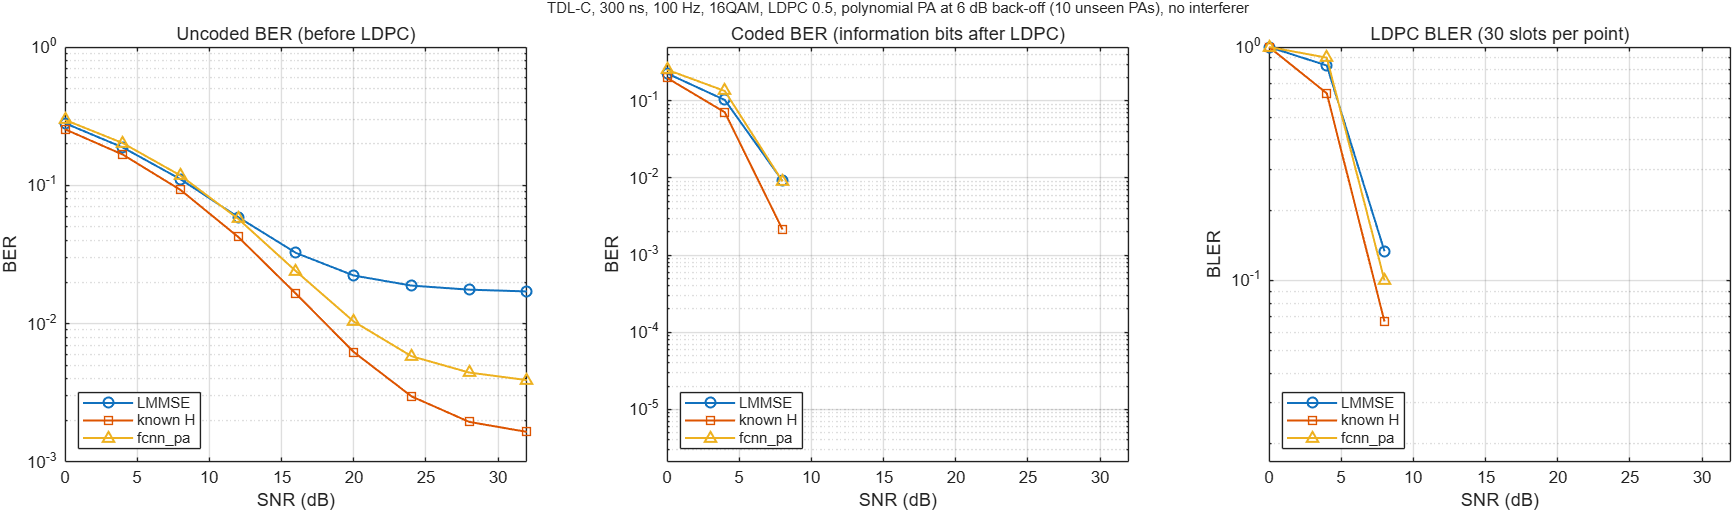
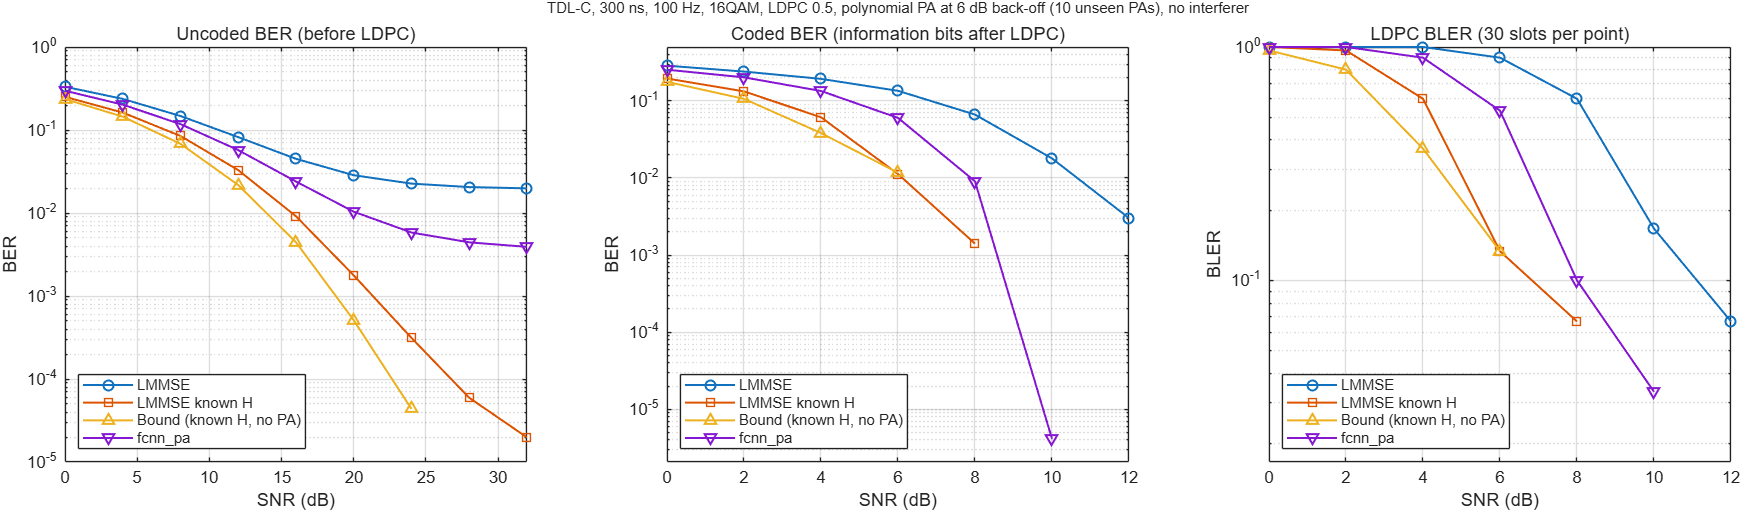
Fix the known-H reference under a PA and split the coded SNR sweep
- run_link passes the PA's Bussgang gain g as truth.PAGain, and the knownH
  receiver equalizes with g*H. The true H alone left the dithered PAs'
  phase rotation (up to 12 deg) in the data, so 'LMMSE known H' hit an
  error floor and was no ceiling under a PA.
- compare_snr adds 'Bound (known H, no PA)' when the test link has a PA,
  and plots coded BER and BLER on their own grid, CodedSNRs (default
  0:2:12); the uncoded panel keeps SNRs (0:4:32).
- Regenerated fcnn_pa, tcnn_1 and tcnn_2, and added tmp_pa_gap: tcnn_feq
  at Doppler 0 with 3 DMRS symbols, where the TCNN lowers the high-SNR
  BER floor about 3x, i.e. channel estimation was what masked it before.

diff --git a/compare_snr.m b/compare_snr.m
@@ -7,9 +7,16 @@ function results = compare_snr(models, varargin)
 %   train_fcnn / train_receiver (any flow) or the legacy FCNN. The
 %   paper's two LMMSE baselines are always added as references: 'LMMSE'
 %   (LS channel estimate at the DMRS, linear interpolation, LMMSE
-%   equalization) and 'LMMSE known H' (the true channel).
+%   equalization) and 'LMMSE known H' (the true channel). With a PA on the
+%   test link, the paper's upper bound is added too, 'Bound (known H, no
+%   PA)': LMMSE with the true channel on the same slots (bits, fading,
+%   noise) sent with a linear PA and a time-invariant channel (Doppler 0),
+%   so there is neither PA distortion nor ICI.
 % Name/value options:
-%   'SNRs'   SNR points in dB (default 0:4:32)
+%   'SNRs'   SNR points in dB of the uncoded BER panel (default 0:4:32)
+%   'CodedSNRs'  SNR points in dB of the coded BER and BLER panels
+%            (default 0:2:12, where LDPC goes from failing to error-free).
+%            Every slot is simulated at the union of both grids.
 %   'Slots'  slots per SNR point (default 30); seeds Seed, Seed+1, ...,
 %            the same at every SNR and for every receiver
 %   'Seed'   first slot seed (default 5001, away from training seeds)
@@ -31,6 +38,7 @@ function results = compare_snr(models, varargin)
 p = inputParser; p.PartialMatching = false;
 addRequired(p, 'models', @(x) iscellstr(x) || isstring(x));
 addParameter(p, 'SNRs', 0:4:32, @(x) isnumeric(x) && isvector(x));
+addParameter(p, 'CodedSNRs', 0:2:12, @(x) isnumeric(x) && isvector(x));
 addParameter(p, 'Slots', 30, @(x) isscalar(x) && x >= 1 && x == fix(x));
 addParameter(p, 'Seed', 5001, @(x) isscalar(x) && x >= 0 && x == fix(x));
 addParameter(p, 'Link', {}, @iscell);
@@ -39,6 +47,7 @@ addParameter(p, 'Labels', {}, @(x) iscellstr(x) || isstring(x));
 addParameter(p, 'Name', 'snr_sweep', @(x) ischar(x) || isstring(x));
 parse(p, models, varargin{:});
 opt = p.Results;
+snrs = union(opt.SNRs(:), opt.CodedSNRs(:)).';  % Sorted, every point simulated once.
 names = cellstr(opt.models);
 labels = cellstr(opt.Labels);
 if isempty(labels), labels = names; end
@@ -74,9 +83,12 @@ if opt.UsePABank && strcmp(base.PAModel, 'polynomial')
 end
 
 % Receivers: references first, then the models.
-receivers = [{'LMMSE', 'LMMSE known H'}, labels(:).'];
-refs = 2;
-R = numel(receivers); S = numel(opt.SNRs);
+receivers = {'LMMSE', 'LMMSE known H'};
+paOff = ~strcmp(base.PAModel, 'none');
+if paOff, receivers{end + 1} = 'Bound (known H, no PA)'; end
+refs = numel(receivers);
+receivers = [receivers, labels(:).'];
+R = numel(receivers); S = numel(snrs);
 counts = zeros(R, S, 5);  % bit errors, bits, block errors, coded bit errors, coded bits
 ctx = rx.context(base);
 fprintf('%s\n', describe(base, pas));
@@ -84,7 +96,7 @@ clock = tic;
 for i = 1:S
     for n = 1:opt.Slots
         cfg = base;
-        cfg.SNRdB = opt.SNRs(i);
+        cfg.SNRdB = snrs(i);
         cfg.Seed = opt.Seed + n - 1;
         if ~isempty(pas)
             cfg.PACoefficients = pas(mod(n - 1, size(pas, 1)) + 1, :);
@@ -93,6 +105,13 @@ for i = 1:S
         llrs = cell(1, R);
         llrs{1} = rx.receive(w, ctx, 'conventional');
         llrs{2} = rx.receive(w, ctx, 'knownH', truth);
+        if paOff
+            ideal = cfg;
+            ideal.PAModel = 'none';
+            ideal.MaximumDopplerShift = 0;
+            [wIdeal, truthIdeal] = run_link(ideal);
+            llrs{3} = rx.receive(wIdeal, ctx, 'knownH', truthIdeal);
+        end
         for k = 1:numel(loaded)
             llrs{refs + k} = nn.receive(w, ctx, loaded{k});
         end
@@ -103,12 +122,12 @@ for i = 1:S
     end
     line = arrayfun(@(r) sprintf('%s %.4f / %.1e / %.2f', receivers{r}, counts(r, i, 1)/counts(r, i, 2), ...
         counts(r, i, 4)/counts(r, i, 5), counts(r, i, 3)/opt.Slots), 1:R, 'UniformOutput', false);
-    fprintf('SNR %5.1f dB | uncoded BER / coded BER / BLER: %s  (%.0f s)\n', opt.SNRs(i), strjoin(line, ' | '), toc(clock));
+    fprintf('SNR %5.1f dB | uncoded BER / coded BER / BLER: %s  (%.0f s)\n', snrs(i), strjoin(line, ' | '), toc(clock));
 end
 
 % Table, figure and files.
 [rr, ss] = ndgrid(1:R, 1:S);
-results = table(reshape(receivers(rr(:)), [], 1), reshape(opt.SNRs(ss(:)), [], 1), ...
+results = table(reshape(receivers(rr(:)), [], 1), reshape(snrs(ss(:)), [], 1), ...
     reshape(counts(:, :, 1)./counts(:, :, 2), [], 1), reshape(counts(:, :, 4)./counts(:, :, 5), [], 1), ...
     reshape(counts(:, :, 3)/opt.Slots, [], 1), ...
     reshape(counts(:, :, 1), [], 1), reshape(counts(:, :, 2), [], 1), ...
@@ -127,18 +146,21 @@ tiledlayout(1, 3);
 styles = {'o-', 's-', '^-', 'v-', 'd-', 'p-', 'h-', '>-', '<-'};
 for panel = 1:3
     nexttile;
+    % Uncoded panel on SNRs, coded panels on CodedSNRs.
+    if panel == 1, x = sort(opt.SNRs(:)).'; else, x = sort(opt.CodedSNRs(:)).'; end
+    at = ismember(snrs, x);
     for r = 1:R
         switch panel
-            case 1, y = squeeze(counts(r, :, 1)./counts(r, :, 2));
-            case 2, y = squeeze(counts(r, :, 4)./counts(r, :, 5));
-            case 3, y = squeeze(counts(r, :, 3))/opt.Slots;
+            case 1, y = squeeze(counts(r, at, 1)./counts(r, at, 2));
+            case 2, y = squeeze(counts(r, at, 4)./counts(r, at, 5));
+            case 3, y = squeeze(counts(r, at, 3))/opt.Slots;
         end
         y(y == 0) = NaN;  % Zero errors: no point on a log axis.
-        semilogy(opt.SNRs, y, styles{mod(r - 1, numel(styles)) + 1}, 'LineWidth', 1.2, ...
+        semilogy(x, y, styles{mod(r - 1, numel(styles)) + 1}, 'LineWidth', 1.2, ...
             'DisplayName', receivers{r}); hold on
     end
     grid on; xlabel('SNR (dB)');
-    if S > 1, xlim(opt.SNRs([1 end])); end  % Same axis even where errors run out.
+    if numel(x) > 1, xlim(x([1 end])); end  % Same axis even where errors run out.
     if panel == 1
         ylabel('BER'); title('Uncoded BER (before LDPC)');
     elseif panel == 2

diff --git a/+rx/receive.m b/+rx/receive.m
@@ -13,7 +13,11 @@ function [llr, trace] = receive(rxWaveform, ctx, mode, genie)
 %                     timing (a one-sample shift rotates subcarrier k by
 %                     2*pi*k/Nfft), so this mode always uses the true timing
 %                     genie.TimingOffset. The noise power is still estimated
-%                     from the pilots.
+%                     from the pilots. With a PA, the data sees g*H, where
+%                     g = genie.PAGain is the PA's Bussgang gain (y = g*x +
+%                     distortion); a perfect estimator would measure g*H at
+%                     the pilots, so this mode uses g*H too. The distortion
+%                     itself stays an impairment.
 %   genie (truth from run_link) is needed only for 'knownH' and for
 %   ctx.TimingEstimation 'perfect'. The conventional receiver with 'dmrs'
 %   timing uses nothing but rxWaveform and ctx.
@@ -40,6 +44,7 @@ switch mode
     case 'knownH'
         assert(isfield(genie, 'H'), 'knownH needs the true channel genie.H.');
         H = genie.H;
+        if isfield(genie, 'PAGain'), H = H * genie.PAGain; end
     otherwise
         error('Unknown receiver mode: %s.', mode);
 end

diff --git a/run_link.m b/run_link.m
@@ -4,7 +4,9 @@ function [rxWaveform, truth, trace] = run_link(cfg)
 %   rxWaveform  samples x receive antennas; the only receiver input
 %               (together with rx.context(cfg)).
 %   truth       for evaluation and genie baselines only:
-%               InfoBits, CodedBits, Code, Grid, H, TimingOffset, NoiseVariance
+%               InfoBits, CodedBits, Code, Grid, H, PAGain, TimingOffset,
+%               NoiseVariance. H is the channel alone; PAGain is the PA's
+%               Bussgang gain g (1 when linear), so the data sees g*H.
 %   trace       tx.transmit and chan.propagate outputs (all checkpoints)
 % Random streams, all derived from cfg.Seed and independent of each other:
 %   bits         mt19937ar, seed cfg.Seed
@@ -24,6 +26,7 @@ truth.CodedBits = txOut.CodedBits;
 truth.Code = txOut.Code;
 truth.Grid = txOut.Grid;
 truth.H = chOut.H;
+truth.PAGain = txOut.PAGain;
 truth.TimingOffset = chOut.TimingOffset;
 truth.NoiseVariance = chOut.NoiseVariance;
 trace.Tx = txOut;
